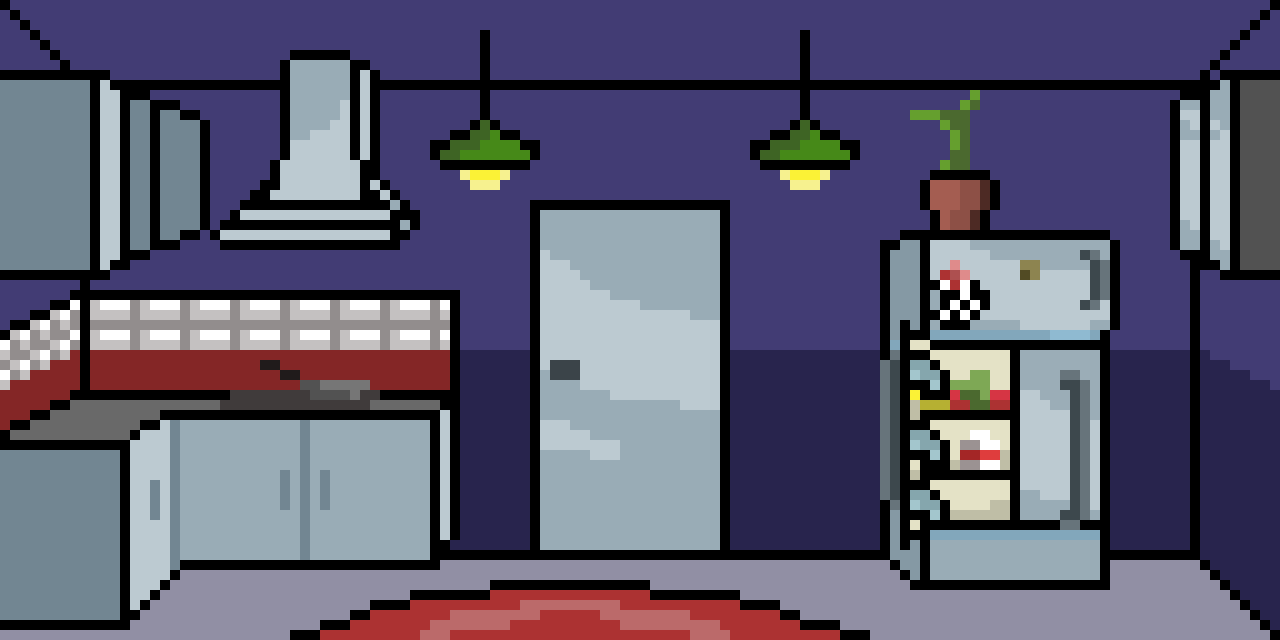
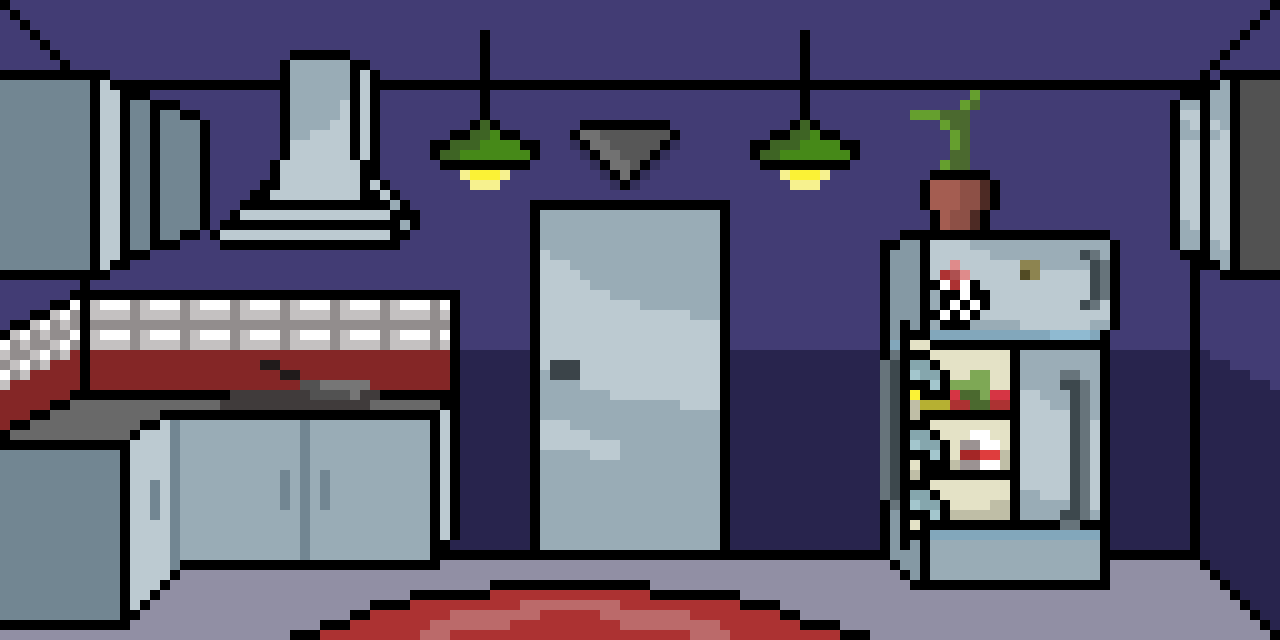
updated text for cook to add boolean

Changed region(s): [[0.4375, 0.1875, 0.5312, 0.3125]]

diff --git a/src/api/src/game-implementation/characters/cookCharacter.ts b/src/api/src/game-implementation/characters/cookCharacter.ts
@@ -4,6 +4,7 @@ import { TalkActionResult } from "../../game-base/actionResults/TalkActionResult
 import { TalkChoice } from "../../game-base/actions/TalkAction";
 import { Character } from "../../game-base/gameObjects/Character";
 import { TextActionResult } from "../../game-base/actionResults/TextActionResult";
+import { gameService } from "../../global";
 
 export class cookCharacter extends Character implements Examine {
     public static readonly Alias: string = "cook";
@@ -27,25 +28,69 @@ export class cookCharacter extends Character implements Examine {
             return new TalkActionResult(
                 this,
                 [
-                    "Yeah I'm the cook",
+                    "Cook: \"Huh?\" \"Thats the door to the storage.\"",
                 ],
                 [
-                    new TalkChoice (3, "thats nice!"),
+                    new TalkChoice (3, "\"Can you open it for me?\""),
+                    new TalkChoice (4, "\"What's in there?\""),
                 ]
             );
         }
         if (choiceId === 2) {
-            return new TextActionResult([
-                "You're in the hospital",
-            ]);
+            return new TalkActionResult(
+                this,
+                [
+                    "Cook: \"Im trying to prepare the meals but I'm short of some suplies...\"",
+                ],
+                [
+                    new TalkChoice (5, "\"Maybe I can help you?\""),
+                    new TalkChoice (6, "\"goodluck with that...\" (Ends conversation)"),
+                ]
+            );
+        }
+        if (choiceId === 3) {
+            return new TextActionResult(
+                [
+                    "Cook: \"Honestly I'm a little busy.\"", "The Cook turns back to his work",
+                ]
+            );
+        }
+        if (choiceId === 4) {
+            return new TextActionResult(
+                [
+                    "Cook: \"I don't know the doctors wont allow me back there...\"",
+                    "The Cook turns back to his work",
+                ]
+            );
+        }
+        if (choiceId === 5) {
+            return new TalkActionResult(
+                this,
+                [
+                    "Cook: \"Well if you really want to help me, im trying to prepare a diner but I'm missing a Fork\"",
+                    "Cook: \"If you could find it for me that would be a massive help!\"",
+                ],
+                [
+                    new TalkChoice (7, "\"I'll see what I can do I guess.\""),
+                    new TalkChoice (8, "\"Actually I already have a fork.\""),
+                ]
+            );
+        }
+        if (choiceId === 8) {
+            gameService.getPlayerSession().GaveTheForkToCook = true;
+            return new TextActionResult(
+                [
+                    "Cook: \"Oh thank you! You're a life saver!\"", "If theres anything I can do for you just ask me!",
+                ]
+            );
         }
         return new TalkActionResult(
             this, [
-                "hi, im the cook.",
+                "The Cook seems like he's busy trying to prepare a meal.",
             ],
             [
-                new TalkChoice(1, "Hey are you the cook?"),
-                new TalkChoice(2, "Where am I?"),
+                new TalkChoice(1, "\"Hey what's behind the door?\""),
+                new TalkChoice(2, "\"What are you doing\"?"),
             ]
         );
     }

diff --git a/src/api/src/game-implementation/rooms/KitchenRoom.ts b/src/api/src/game-implementation/rooms/KitchenRoom.ts
@@ -18,7 +18,7 @@ export class KitchenRoom extends Room {
     }
 
     public images(): string[] {
-        return ["Kitchen", "Cook"];
+        return ["Kitchen", "Cook", "ArrowToCafKitchen4", "KnifeKitchen", "BagOfSugar"];
     }
 
     public objects(): GameObject[] {
@@ -37,8 +37,9 @@ export class KitchenRoom extends Room {
     public examine(): ActionResult | undefined {
         return new TextActionResult([
             "You walk into the kitchen",
-            "As you walk in you see a cook busy working on some food",
-            "In de back there is a metal door.",
+            "A cook is busy at the counter, focused on preparing food.",
+            "At the back of the room, there’s a metal door.",
+            "On top of the fridge, a bag of sugar rests, and a knife hangs from the wall.",
         ]);
     }
 }

diff --git a/src/api/src/game-implementation/types.ts b/src/api/src/game-implementation/types.ts
@@ -8,4 +8,5 @@ export type PlayerSession = {
     currentRoom: string;
     /** List of game object aliases the player owns */
     inventory: string[];
+    GaveTheForkToCook: boolean;
 };
